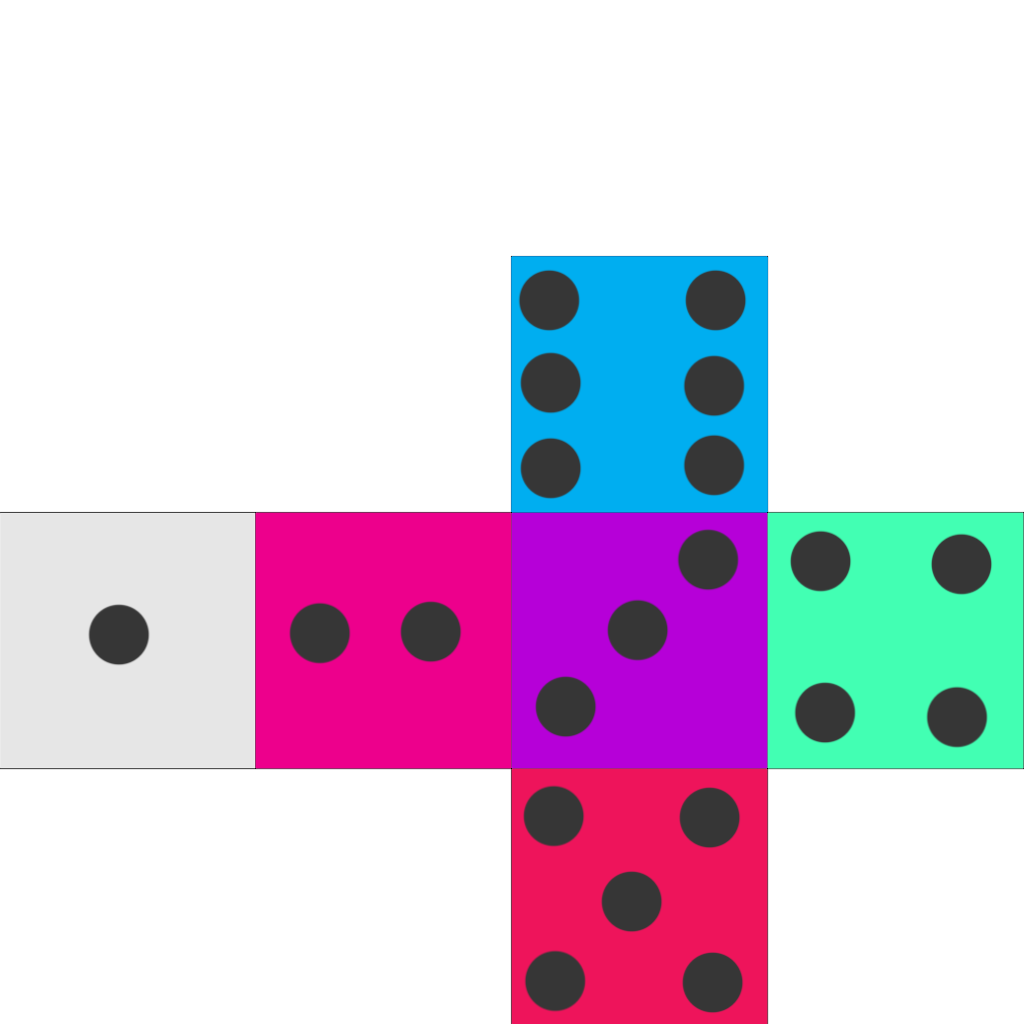
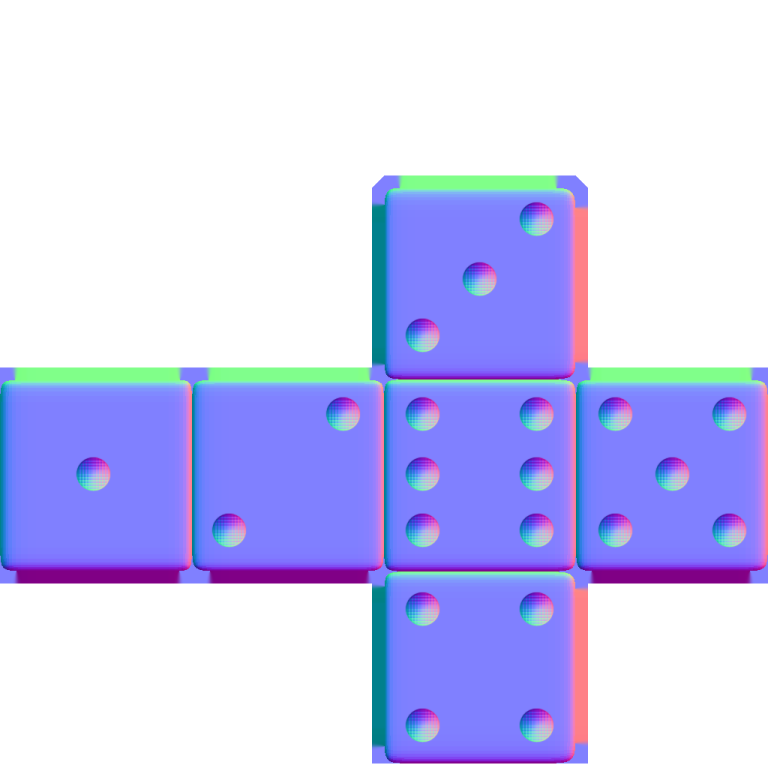
Entrega final - Práctica 7

diff --git a/ConfigInicial/Texturizado.cpp b/ConfigInicial/Texturizado.cpp
@@ -1,7 +1,7 @@
 
 /* Jacinto Robledo Valeria Berenice
 * No. de Cuenta: 32005797-3
-* Fecha: 18/03/2025
+* Fecha: 20/03/2025
 * Practica 7: Texturizado
 /*/
 #include <iostream>
@@ -118,62 +118,63 @@ int main()
 
 	// Set up vertex data (and buffer(s)) and attribute pointers
 	// Set up vertex data (and buffer(s)) and attribute pointers
+	// Set up vertex data (and buffer(s)) and attribute pointers
 	GLfloat vertices[] = {
 		// Positions            // Colors             // Texture Coords (UV)
 
-		// --- Cara Frontal (Morada, número 5) ---
-		// Esta cara está en la columna 2 (0.5 a 0.75) y fila 1 (0.333 a 0.666)
-		-0.5f, -0.5f,  0.5f,    1.0f, 0.0f, 0.0f,     0.50f, 0.333f, // Inf Izq
-		 0.5f, -0.5f,  0.5f,    1.0f, 0.0f, 0.0f,     0.75f, 0.333f, // Inf Der
-		 0.5f,  0.5f,  0.5f,    1.0f, 0.0f, 0.0f,     0.75f, 0.666f, // Sup Der
-		 0.5f,  0.5f,  0.5f,    1.0f, 0.0f, 0.0f,     0.75f, 0.666f, // Sup Der
-		-0.5f,  0.5f,  0.5f,    1.0f, 0.0f, 0.0f,     0.50f, 0.666f, // Sup Izq
-		-0.5f, -0.5f,  0.5f,    1.0f, 0.0f, 0.0f,     0.50f, 0.333f, // Inf Izq
+		// Cara frontal = 6
+		// columna 3, fila 2
+		-0.5f, -0.5f,  0.5f,    1.0f, 1.0f, 1.0f,     0.498f, 0.261f, // Inf Izq
+		 0.5f, -0.5f,  0.5f,    1.0f, 1.0f, 1.0f,     0.748f, 0.261f, // Inf Der
+		 0.5f,  0.5f,  0.5f,    1.0f, 1.0f, 1.0f,     0.748f, 0.498f, // Sup Der
+		 0.5f,  0.5f,  0.5f,    1.0f, 1.0f, 1.0f,     0.748f, 0.498f, // Sup Der
+		-0.5f,  0.5f,  0.5f,    1.0f, 1.0f, 1.0f,     0.498f, 0.498f, // Sup Izq
+		-0.5f, -0.5f,  0.5f,    1.0f, 1.0f, 1.0f,     0.498f, 0.261f, // Inf Izq
 
-		// --- Cara Trasera (Gris, número 1) ---
-		// Esta cara está en la columna 0 (0.0 a 0.25) y fila 1 (0.333 a 0.666)
-		-0.5f, -0.5f, -0.5f,    0.0f, 1.0f, 0.0f,     0.25f, 0.333f, // Inf Der (Invertida por estar atrás)
-		 0.5f, -0.5f, -0.5f,    0.0f, 1.0f, 0.0f,     0.00f, 0.333f, // Inf Izq
-		 0.5f,  0.5f, -0.5f,    0.0f, 1.0f, 0.0f,     0.00f, 0.666f, // Sup Izq
-		 0.5f,  0.5f, -0.5f,    0.0f, 1.0f, 0.0f,     0.00f, 0.666f, // Sup Izq
-		-0.5f,  0.5f, -0.5f,    0.0f, 1.0f, 0.0f,     0.25f, 0.666f, // Sup Der
-		-0.5f, -0.5f, -0.5f,    0.0f, 1.0f, 0.0f,     0.25f, 0.333f, // Inf Der
+		// Cara de atras = 1
+		// columna 1, fila 2 
+		-0.5f, -0.5f, -0.5f,    1.0f, 1.0f, 1.0f,     0.248f, 0.261f, // Inf Der (Invertida por estar atrás)
+		 0.5f, -0.5f, -0.5f,    1.0f, 1.0f, 1.0f,    -0.002f, 0.261f, // Inf Izq
+		 0.5f,  0.5f, -0.5f,    1.0f, 1.0f, 1.0f,    -0.002f, 0.498f, // Sup Izq
+		 0.5f,  0.5f, -0.5f,    1.0f, 1.0f, 1.0f,    -0.002f, 0.498f, // Sup Izq
+		-0.5f,  0.5f, -0.5f,    1.0f, 1.0f, 1.0f,     0.248f, 0.498f, // Sup Der
+		-0.5f, -0.5f, -0.5f,    1.0f, 1.0f, 1.0f,     0.248f, 0.261f, // Inf Der
 
-		// --- Cara Superior (Azul, número 6) ---
-		// Esta cara está en la columna 2 (0.5 a 0.75) y fila 2 (0.666 a 1.0)
-		 0.5f,  0.5f,  0.5f,    0.0f, 0.0f, 1.0f,     0.75f, 0.666f, // Inf Der (Vista desde arriba)
-		 0.5f,  0.5f, -0.5f,    0.0f, 0.0f, 1.0f,     0.75f, 1.000f, // Sup Der
-		-0.5f,  0.5f, -0.5f,    0.0f, 0.0f, 1.0f,     0.50f, 1.000f, // Sup Izq
-		-0.5f,  0.5f, -0.5f,    0.0f, 0.0f, 1.0f,     0.50f, 1.000f, // Sup Izq
-		-0.5f,  0.5f,  0.5f,    0.0f, 0.0f, 1.0f,     0.50f, 0.666f, // Inf Izq
-		 0.5f,  0.5f,  0.5f,    0.0f, 0.0f, 1.0f,     0.75f, 0.666f, // Inf Der
+		// Cara de arriba = 3
+		// columna 3 , fila 3
+		 0.5f,  0.5f,  0.5f,    1.0f, 1.0f, 1.0f,     0.748f, 0.498f, // Inf Der (Vista desde arriba)
+		 0.5f,  0.5f, -0.5f,    1.0f, 1.0f, 1.0f,     0.748f, 0.748f, // Sup Der
+		-0.5f,  0.5f, -0.5f,    1.0f, 1.0f, 1.0f,     0.498f, 0.748f, // Sup Izq
+		-0.5f,  0.5f, -0.5f,    1.0f, 1.0f, 1.0f,     0.498f, 0.748f, // Sup Izq
+		-0.5f,  0.5f,  0.5f,    1.0f, 1.0f, 1.0f,     0.498f, 0.498f, // Inf Izq
+		 0.5f,  0.5f,  0.5f,    1.0f, 1.0f, 1.0f,     0.748f, 0.498f, // Inf Der
 
-		 // --- Cara Izquierda (Rosa, número 2) ---
-		 // Esta cara está en la columna 1 (0.25 a 0.5) y fila 1 (0.333 a 0.666)
-		 -0.5f,  0.5f,  0.5f,    1.0f, 1.0f, 0.0f,     0.50f, 0.666f, // Sup Der
-		 -0.5f,  0.5f, -0.5f,    1.0f, 1.0f, 0.0f,     0.25f, 0.666f, // Sup Izq
-		 -0.5f, -0.5f, -0.5f,    1.0f, 1.0f, 0.0f,     0.25f, 0.333f, // Inf Izq
-		 -0.5f, -0.5f, -0.5f,    1.0f, 1.0f, 0.0f,     0.25f, 0.333f, // Inf Izq
-		 -0.5f, -0.5f,  0.5f,    1.0f, 1.0f, 0.0f,     0.50f, 0.333f, // Inf Der
-		 -0.5f,  0.5f,  0.5f,    1.0f, 1.0f, 0.0f,     0.50f, 0.666f, // Sup Der
+		 // Cara Izquierda = 2
+		 // columna 2 , fila 2
+		 -0.5f,  0.5f,  0.5f,    1.0f, 1.0f, 1.0f,     0.498f, 0.498f, // Sup Der
+		 -0.5f,  0.5f, -0.5f,    1.0f, 1.0f, 1.0f,     0.248f, 0.498f, // Sup Izq
+		 -0.5f, -0.5f, -0.5f,    1.0f, 1.0f, 1.0f,     0.248f, 0.248f, // Inf Izq
+		 -0.5f, -0.5f, -0.5f,    1.0f, 1.0f, 1.0f,     0.248f, 0.248f, // Inf Izq
+		 -0.5f, -0.5f,  0.5f,    1.0f, 1.0f, 1.0f,     0.498f, 0.248f, // Inf Der
+		 -0.5f,  0.5f,  0.5f,    1.0f, 1.0f, 1.0f,     0.498f, 0.498f, // Sup Der
 
-		 // --- Cara Inferior (Roja, número 4) ---
-		 // Esta cara está en la columna 2 (0.5 a 0.75) y fila 0 (0.0 a 0.333)
-		 -0.5f, -0.5f, -0.5f,    0.0f, 1.0f, 1.0f,     0.50f, 0.000f, // Inf Izq (Vista desde abajo)
-		  0.5f, -0.5f, -0.5f,    0.0f, 1.0f, 1.0f,     0.75f, 0.000f, // Inf Der
-		  0.5f, -0.5f,  0.5f,    0.0f, 1.0f, 1.0f,     0.75f, 0.333f, // Sup Der
-		  0.5f, -0.5f,  0.5f,    0.0f, 1.0f, 1.0f,     0.75f, 0.333f, // Sup Der
-		 -0.5f, -0.5f,  0.5f,    0.0f, 1.0f, 1.0f,     0.50f, 0.333f, // Sup Izq
-		 -0.5f, -0.5f, -0.5f,    0.0f, 1.0f, 1.0f,     0.50f, 0.000f, // Inf Izq
+		 // Cara de abajo = 4
+		 // columna 3, fila 1
+		 -0.5f, -0.5f, -0.5f,    1.0f, 1.0f, 1.0f,     0.498f, -0.002f, // Inf Izq (Vista desde abajo)
+		  0.5f, -0.5f, -0.5f,    1.0f, 1.0f, 1.0f,     0.748f, -0.002f, // Inf Der
+		  0.5f, -0.5f,  0.5f,    1.0f, 1.0f, 1.0f,     0.748f,  0.248f, // Sup Der
+		  0.5f, -0.5f,  0.5f,    1.0f, 1.0f, 1.0f,     0.748f,  0.248f, // Sup Der
+		 -0.5f, -0.5f,  0.5f,    1.0f, 1.0f, 1.0f,     0.498f,  0.248f, // Sup Izq
+		 -0.5f, -0.5f, -0.5f,    1.0f, 1.0f, 1.0f,     0.498f, -0.002f, // Inf Izq
 
-		 // --- Cara Derecha (Verde, número 3) ---
-		 // Esta cara está en la columna 3 (0.75 a 1.0) y fila 1 (0.333 a 0.666)
-		  0.5f,  0.5f, -0.5f,    1.0f, 0.2f, 0.5f,     1.00f, 0.666f, // Sup Der
-		  0.5f, -0.5f, -0.5f,    1.0f, 0.2f, 0.5f,     1.00f, 0.333f, // Inf Der
-		  0.5f, -0.5f,  0.5f,    1.0f, 0.2f, 0.5f,     0.75f, 0.333f, // Inf Izq
-		  0.5f, -0.5f,  0.5f,    1.0f, 0.2f, 0.5f,     0.75f, 0.333f, // Inf Izq
-		  0.5f,  0.5f,  0.5f,    1.0f, 0.2f, 0.5f,     0.75f, 0.666f, // Sup Izq
-		  0.5f,  0.5f, -0.5f,    1.0f, 0.2f, 0.5f,     1.00f, 0.666f, // Sup Der
+		 //Cara Derecha = 5
+		 // columna 4 , fila 2 
+		  0.5f,  0.5f, -0.5f,    1.0f, 1.0f, 1.0f,     0.998f, 0.498f, // Sup Der
+		  0.5f, -0.5f, -0.5f,    1.0f, 1.0f, 1.0f,     0.998f, 0.261f, // Inf Der
+		  0.5f, -0.5f,  0.5f,    1.0f, 1.0f, 1.0f,     0.748f, 0.261f, // Inf Izq
+		  0.5f, -0.5f,  0.5f,    1.0f, 1.0f, 1.0f,     0.748f, 0.261f, // Inf Izq
+		  0.5f,  0.5f,  0.5f,    1.0f, 1.0f, 1.0f,     0.748f, 0.498f, // Sup Izq
+		  0.5f,  0.5f, -0.5f,    1.0f, 1.0f, 1.0f,     0.998f, 0.498f, // Sup Der
 	};
 
 	//GLuint indices[] =
@@ -320,7 +321,6 @@ int main()
 
 		//para dibujar el cubo
 		glBindVertexArray(VAO);
-		
 		glDrawArrays(GL_TRIANGLES, 0, 36);
 		glBindVertexArray(0);
 
